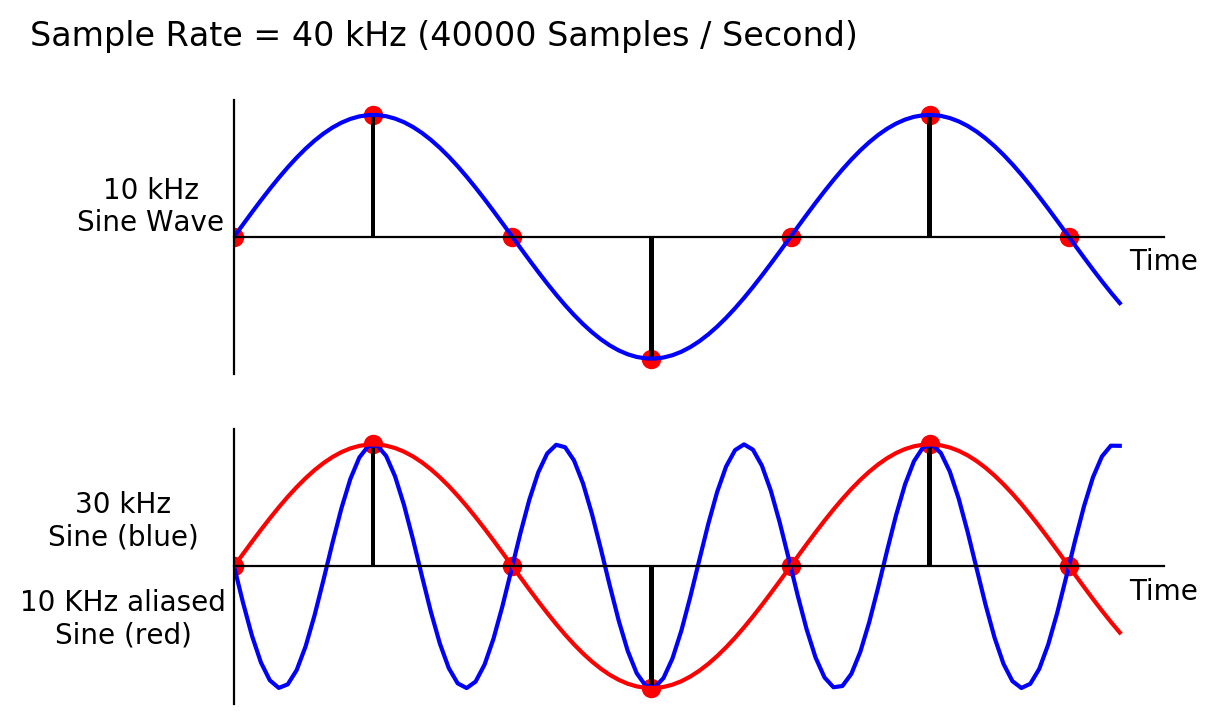
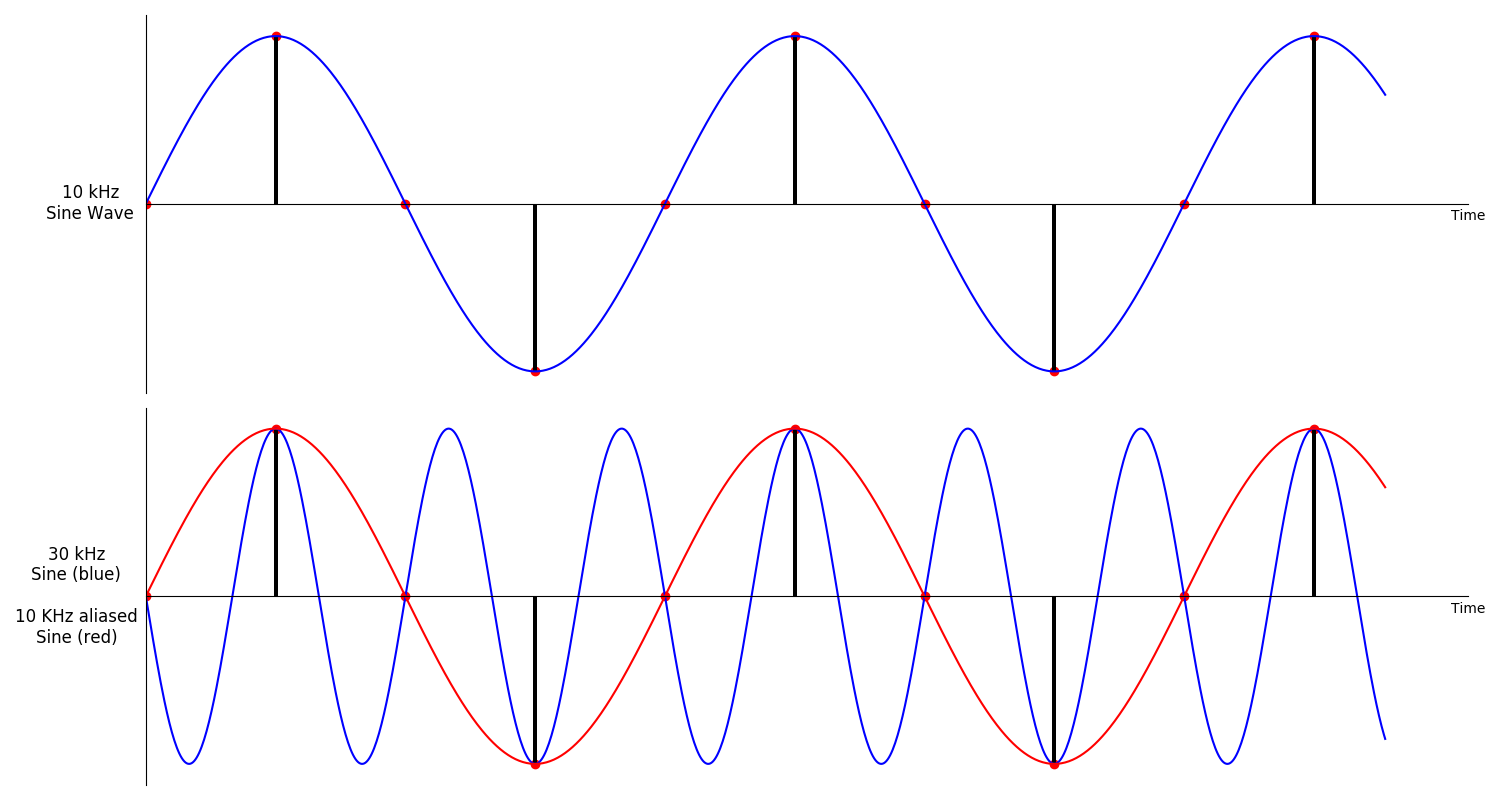
improved figures for 1A

diff --git a/book/01-a-digital-audio.md b/book/01-a-digital-audio.md
@@ -11,7 +11,7 @@ medium can be described as sound waves. The simplest type of waveform,
 describing what is referred to as *simple harmonic motion*, is a sine
 wave.
 
-![](../resources/images/01-a-sinewave.png)
+![Sine wave](../resources/images/01-a-sinewave.png){width=95%}
 
 Each time the waveform signal goes above zero the molecules are in a state
 of compression meaning that each molecule within the waveform
@@ -93,7 +93,7 @@ are left with what is known as a *discrete signal*, consisting of a
 collection of audio samples, as illustrated in the bottom half of the
 diagram.
 
-![Sampling of an analog signal](../resources/images/01-a-sampling.png)
+![Sampling of an analog signal](../resources/images/01-a-sampling.png){width=70%}
 
 It is important to remember that each sample represents the amount of
 voltage, positive or negative, that was present in the signal at the
@@ -139,7 +139,7 @@ lines. The line that joins the red circles together is the captured
 waveform. As you can see, the captured waveform and the original
 waveform express different frequencies.
 
-Here is another example:
+Here is another example, showing for a sample rate of 40 kHz in the upper section a sine of 10 kHz, and in the lower section a sine of 30 kHz:
 
 ![Aliasing of a 30 kHz sine at 40 kHz sample rate](../resources/images/01-a-aliasing-2.png)
 

diff --git a/book/00-a-preface.md b/book/00-a-preface.md
@@ -48,15 +48,15 @@ straightforward transfer of the signal flow paradigm to text.
 For example, to create a 400 Hz sine oscillator with an amplitude of
 0.2, this is the signal flow:
 
-![](../resources/images/00-a-signal-flow.png)
+![Simple signal flow](../resources/images/00-a-signal-flow.png){width=20%}
 
 Here is a possible transformation of the signal graph into Csound code:
 
 ~~~csound
-    instr   Sine
-     aSig poscil  0.2, 400
-     out     aSig
-    endin
+instr Sine
+ aSig poscil 0.2, 400
+ out aSig
+endin
 ~~~
 
 The oscillator is represented by the opcode
@@ -72,9 +72,9 @@ code in an even more condensed fashion using so-called *functional
 syntax*, as shown below:
 
 ~~~csound
-    instr Sine
-     out poscil:a(0.2, 400)
-    endin
+instr Sine
+ out poscil:a(0.2, 400)
+endin
 ~~~
 
 We will use both, traditional and functional style, throughout this textbook. More details on functional style can be found in chapter
